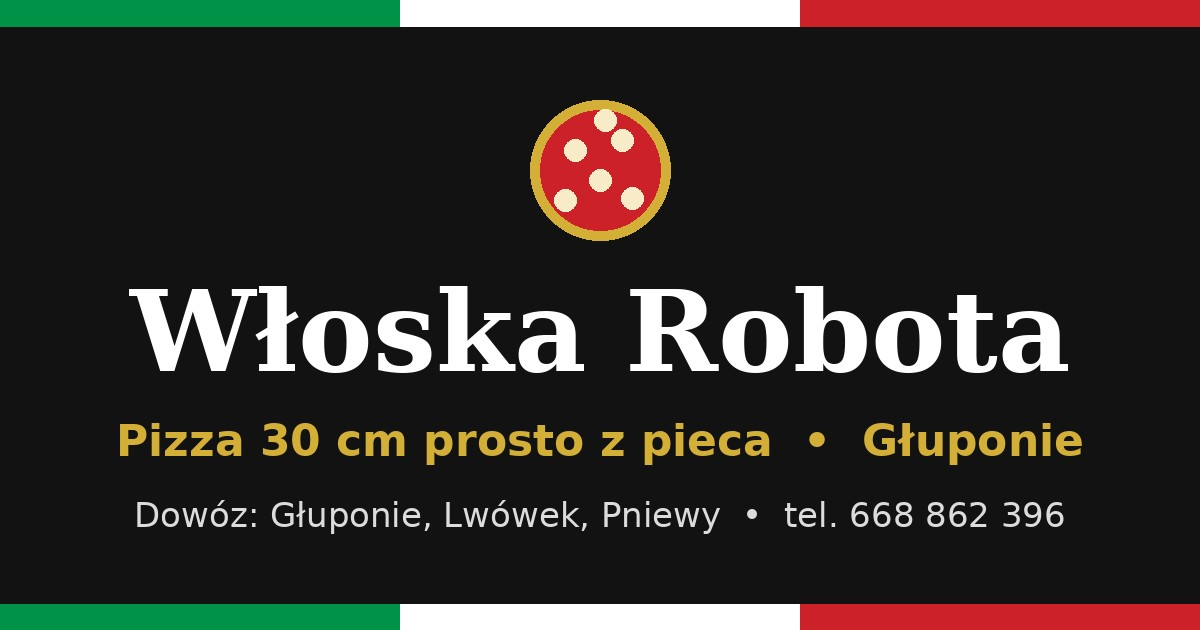
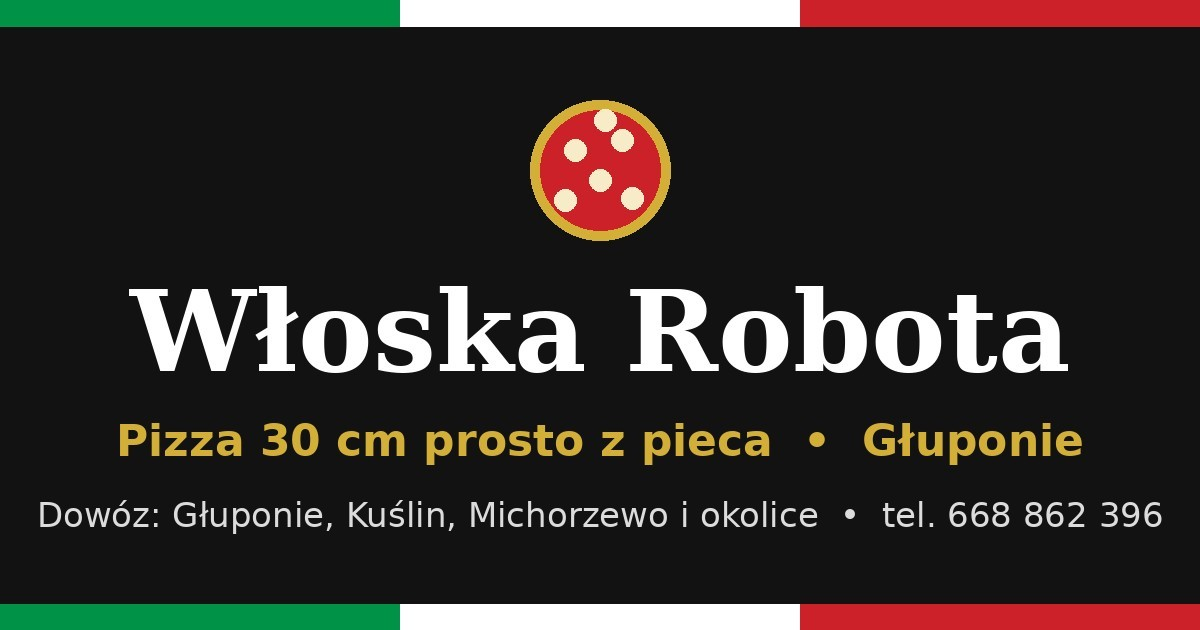
Add files via upload

Changed region(s): [[0.0308, 0.7841, 0.9867, 0.8444]]

diff --git a/index.html b/index.html
@@ -4,14 +4,14 @@
 <meta charset="UTF-8">
 <meta name="viewport" content="width=device-width, initial-scale=1.0">
 <title>Włoska Robota - Pizza z Pieca | Głuponie</title>
-<meta name="description" content="Pizzeria Włoska Robota w Głuponiach. Pizza 30cm z pieca, ciasto fermentowane 24h. Dowóz: Głuponie, Lwówek, Pniewy i okolice. Tel. 668 862 396. Śr-Pt 12:00-20:00, Sob-Nd 14:00-22:00.">
+<meta name="description" content="Pizzeria Włoska Robota w Głuponiach. Pizza 30cm z pieca, ciasto fermentowane 24h. Dowóz: Głuponie, Kuślin, Michorzewo i okolice. Tel. 668 862 396. Śr-Pt 12:00-20:00, Sob-Nd 14:00-22:00.">
 <meta name="theme-color" content="#CD212A">
 <link rel="canonical" href="https://wloskarobota.eu/">
 <meta property="og:type" content="restaurant">
 <meta property="og:site_name" content="Włoska Robota">
 <meta property="og:locale" content="pl_PL">
 <meta property="og:title" content="Włoska Robota - Pizza z Pieca | Głuponie">
-<meta property="og:description" content="Pizza 30cm prosto z pieca, ciasto fermentowane 24h. Dowóz: Głuponie, Lwówek, Pniewy. Zadzwoń: 668 862 396.">
+<meta property="og:description" content="Pizza 30cm prosto z pieca, ciasto fermentowane 24h. Dowóz: Głuponie, Kuślin, Michorzewo i okolice. Zadzwoń: 668 862 396.">
 <meta property="og:url" content="https://wloskarobota.eu/">
 <meta property="og:image" content="https://wloskarobota.eu/og-image.jpg">
 <meta property="og:image:width" content="1200">
@@ -19,7 +19,7 @@
 <meta property="og:image:alt" content="Włoska Robota - pizzeria w Głuponiach">
 <meta name="twitter:card" content="summary_large_image">
 <meta name="twitter:title" content="Włoska Robota - Pizza z Pieca | Głuponie">
-<meta name="twitter:description" content="Pizza 30cm prosto z pieca. Dowóz: Głuponie, Lwówek, Pniewy.">
+<meta name="twitter:description" content="Pizza 30cm prosto z pieca. Dowóz: Głuponie, Kuślin, Michorzewo i okolice.">
 <meta name="twitter:image" content="https://wloskarobota.eu/og-image.jpg">
 <script type="application/ld+json">
 {
@@ -41,7 +41,7 @@
     {"@type": "OpeningHoursSpecification", "dayOfWeek": ["Wednesday", "Thursday", "Friday"], "opens": "12:00", "closes": "20:00"},
     {"@type": "OpeningHoursSpecification", "dayOfWeek": ["Saturday", "Sunday"], "opens": "14:00", "closes": "22:00"}
   ],
-  "areaServed": ["Głuponie", "Lwówek", "Pniewy", "Kuślin", "Michorzewo", "Michorzewko"],
+  "areaServed": ["Głuponie", "Trzcianka", "Michorzewo", "Kuślin", "Chraplewo", "Michorzewko", "Dąbrowa Nowa", "Rudniki", "Wąsowo", "Jastrzębniki"],
   "hasMenu": "https://wloskarobota.eu/#menu",
   "sameAs": ["https://www.facebook.com/profile.php?id=61591198263542"]
 }
@@ -495,7 +495,7 @@ body.dark footer {background: #0a0a0a;}
 <section class="contact" id="contact">
   <div class="container">
     <h2 class="section-title fade-in">Zamów <span>Teraz</span></h2>
-    <p class="section-subtitle fade-in" id="deliverySub">Dowóz: Głuponie, Lwówek, Pniewy, Kuślin, Michorzewo, Michorzewko i okolice</p>
+    <p class="section-subtitle fade-in" id="deliverySub">Dowóz: Głuponie, Kuślin, Michorzewo, Michorzewko i okolice</p>
     <div id="delivery-check" class="fade-in" hidden>
       <label for="dc-input">🚚 Czy dowozimy do Ciebie?</label>
       <input id="dc-input" type="text" list="dc-list" placeholder="Wpisz swoją miejscowość" autocomplete="off" maxlength="40">
@@ -524,8 +524,8 @@ body.dark footer {background: #0a0a0a;}
       <div class="contact-card fade-in">
         <div class="contact-icon"><i class="fas fa-truck"></i></div>
         <h3>Dowóz</h3>
-        <p>Głuponie, Lwówek</p>
-        <p>Pniewy i okolice</p>
+        <p>Głuponie, Kuślin, Michorzewo</p>
+        <p>i okolice (koszt dowozu niżej)</p>
       </div>
     </div>
     <div class="map-wrapper fade-in">
@@ -1184,7 +1184,16 @@ body.dark #site-dish .sd-text{color:#bbb}
           <label class="rb-check"><input id="rb-site-dish-on" type="checkbox"> Wyróżnij na stronie</label>
 
           <h4>Dowóz</h4>
-          <div class="rb-meta" style="margin:-4px 0 6px">Miejscowości, do których dowozisz. Klient wpisuje swoją na stronie i od razu widzi koszt oraz minimalne zamówienie. Puste pole kosztu lub minimum = informacja się nie pokazuje; koszt 0 = dowóz gratis.</div>
+          <div class="rb-meta" style="margin:-4px 0 6px">Miejscowości, do których dowozisz (na start: okolice do ok. 10 km, koszt 10 zł). Klient wpisuje swoją na stronie i od razu widzi koszt oraz minimalne zamówienie. Zmień kwoty przy każdej miejscowości, dodaj lub usuń miejscowości, a potem zapisz na dole. Puste pole kosztu lub minimum = informacja się nie pokazuje; koszt 0 = dowóz gratis.</div>
+          <div class="rb-del">
+            <div class="rb-meta" style="margin-bottom:6px"><b>Ustaw wszystkim naraz</b> (wypełnia pola we wszystkich wierszach poniżej; puste pole zostawia bez zmian)</div>
+            <div class="rb-del-nums">
+              <div><label>Koszt dowozu (zł)</label><input type="text" id="rb-del-bulk-fee" inputmode="decimal" maxlength="7" placeholder="np. 10"></div>
+              <div><label>Minimum (zł)</label><input type="text" id="rb-del-bulk-min" inputmode="decimal" maxlength="7" placeholder="np. 40"></div>
+              <div><label>Gratis od (zł)</label><input type="text" id="rb-del-bulk-free" inputmode="decimal" maxlength="7" placeholder="opcj."></div>
+            </div>
+            <button type="button" class="rb-btn secondary small" id="rb-del-bulk">Zastosuj do wszystkich</button>
+          </div>
           <div id="rb-del-list"></div>
           <button type="button" class="rb-btn secondary small" id="rb-del-add">+ Dodaj miejscowość</button>
 
@@ -2277,7 +2286,10 @@ $("rb-st-list").addEventListener("click", async (e) => {
 
 /* ---------- treści strony z bazy: ceny, dostępność, komunikat, pizza dnia ---------- */
 const SITE_CACHE_KEY = "wr_site_cfg_v1";
-let siteCfg = { prices: {}, unavailable: {}, hidden: {}, products: [], notice: null, dish: null, delivery: { places: [] }, googleReviewUrl: "" };
+// Domyślna lista dowozu (do ok. 10 km od lokalu, koszt 10 zł). Obowiązuje, dopóki admin nie zapisze własnej listy w panelu (Strona → Dowóz).
+const DELIVERY_DEFAULT = ["Głuponie", "Trzcianka", "Tomaszewo", "Michorzewo", "Kuślin", "Zygmuntowo", "Chraplewo", "Marszewo", "Michorzewko", "Wymysłowo", "Dąbrowa", "Łęczyce", "Dąbrowa Nowa", "Rudniki", "Wąsowo", "Jastrzębniki"]
+  .map((name) => ({ name, fee: 10, min: null, freeFrom: null }));
+let siteCfg = { prices: {}, unavailable: {}, hidden: {}, products: [], notice: null, dish: null, delivery: { places: DELIVERY_DEFAULT }, googleReviewUrl: "" };
 const PROD_CATS = [["klasyczne", "Klasyczne"], ["miesne", "Mięsne"], ["vege", "Wege"], ["sosy", "Sosy"], ["makarony", "Makarony"], ["dodatki", "Dodatki"]];
 const MAX_PRODUCTS = 40;
 const menuEls = () => [...document.querySelectorAll("#menuGrid .menu-item")];
@@ -2291,7 +2303,7 @@ const tsMs = (t) => (t ? (t.toDate ? t.toDate().getTime() : (t.seconds ? t.secon
 
 function plainCfg(c) {
   const n = c.notice ? { ...c.notice, until: c.notice.until ? { seconds: Math.floor(tsMs(c.notice.until) / 1000) } : null } : null;
-  return { prices: c.prices || {}, unavailable: c.unavailable || {}, hidden: c.hidden || {}, products: c.products || [], notice: n, dish: c.dish || null, delivery: c.delivery || { places: [] }, googleReviewUrl: c.googleReviewUrl || "" };
+  return { prices: c.prices || {}, unavailable: c.unavailable || {}, hidden: c.hidden || {}, products: c.products || [], notice: n, dish: c.dish || null, delivery: c.delivery || null, googleReviewUrl: c.googleReviewUrl || "" };
 }
 
 function renderDish() {
@@ -2367,7 +2379,7 @@ function applySite(cfg) {
   siteCfg = {
     prices: (cfg && cfg.prices) || {}, unavailable: (cfg && cfg.unavailable) || {}, hidden: (cfg && cfg.hidden) || {},
     products: Array.isArray(cfg && cfg.products) ? cfg.products : [], notice: (cfg && cfg.notice) || null, dish: (cfg && cfg.dish) || null,
-    delivery: { places: Array.isArray(cfg && cfg.delivery && cfg.delivery.places) ? cfg.delivery.places : [] },
+    delivery: { places: Array.isArray(cfg && cfg.delivery && cfg.delivery.places) ? cfg.delivery.places : DELIVERY_DEFAULT },
     googleReviewUrl: (cfg && typeof cfg.googleReviewUrl === "string") ? cfg.googleReviewUrl : ""
   };
   renderProducts();
@@ -2406,7 +2418,11 @@ function renderDelivery() {
   box.hidden = !places.length;
   $("dc-list").innerHTML = places.map((p) => '<option value="' + esc(p.name) + '"></option>').join("");
   const sub = $("deliverySub");
-  if (sub && places.length) sub.textContent = "Dowóz: " + places.map((p) => p.name).join(", ") + " i okolice";
+  if (sub && places.length) {
+    sub.textContent = places.length > 8
+      ? "Dowozimy do " + places.length + " miejscowości w okolicy Głuponi — wpisz swoją poniżej i sprawdź koszt"
+      : "Dowóz: " + places.map((p) => p.name).join(", ") + " i okolice";
+  }
   renderDeliveryResult();
 }
 function renderDeliveryResult() {
@@ -2474,7 +2490,6 @@ function prodRowHtml(p) {
   </div>`;
 }
 
-const DELIVERY_SEED = ["Głuponie", "Lwówek", "Pniewy", "Kuślin", "Michorzewo", "Michorzewko"];
 const numStr = (v) => (typeof v === "number" ? String(v).replace(".", ",") : "");
 function delRowHtml(p) {
   p = p || {};
@@ -2491,7 +2506,7 @@ function delRowHtml(p) {
 
 function fillSiteForm() {
   const dp = siteCfg.delivery.places.filter(validPlace);
-  $("rb-del-list").innerHTML = (dp.length ? dp : DELIVERY_SEED.map((name) => ({ name }))).map(delRowHtml).join("");
+  $("rb-del-list").innerHTML = dp.map(delRowHtml).join("");
   $("rb-site-google").value = siteCfg.googleReviewUrl || "";
   $("rb-prod-list").innerHTML = siteCfg.products.filter(validProduct).map(prodRowHtml).join("");
   const items = menuEls().filter((el) => !el.dataset.custom);
@@ -2523,6 +2538,14 @@ $("rb-del-add").addEventListener("click", () => {
   if (list.querySelectorAll(".rb-del").length >= 40) { setMsg(siteMsg, "Maksymalnie 40 miejscowości.", "err"); return; }
   list.insertAdjacentHTML("beforeend", delRowHtml());
   list.lastElementChild.querySelector(".rb-del-name").focus();
+});
+$("rb-del-bulk").addEventListener("click", () => {
+  const vals = { ".rb-del-fee": $("rb-del-bulk-fee").value.trim(), ".rb-del-min": $("rb-del-bulk-min").value.trim(), ".rb-del-free": $("rb-del-bulk-free").value.trim() };
+  if (!Object.values(vals).some(Boolean)) { setMsg(siteMsg, "Wpisz kwotę w co najmniej jednym polu „Ustaw wszystkim naraz”.", "err"); return; }
+  document.querySelectorAll("#rb-del-list .rb-del").forEach((row) => {
+    Object.entries(vals).forEach(([sel, v]) => { if (v) row.querySelector(sel).value = v; });
+  });
+  setMsg(siteMsg, "Wpisano we wszystkich wierszach. Kliknij „Zapisz i opublikuj na stronie”, żeby zatwierdzić.", "ok");
 });
 $("rb-del-list").addEventListener("click", (e) => {
   const b = e.target.closest(".rb-del-rm");
